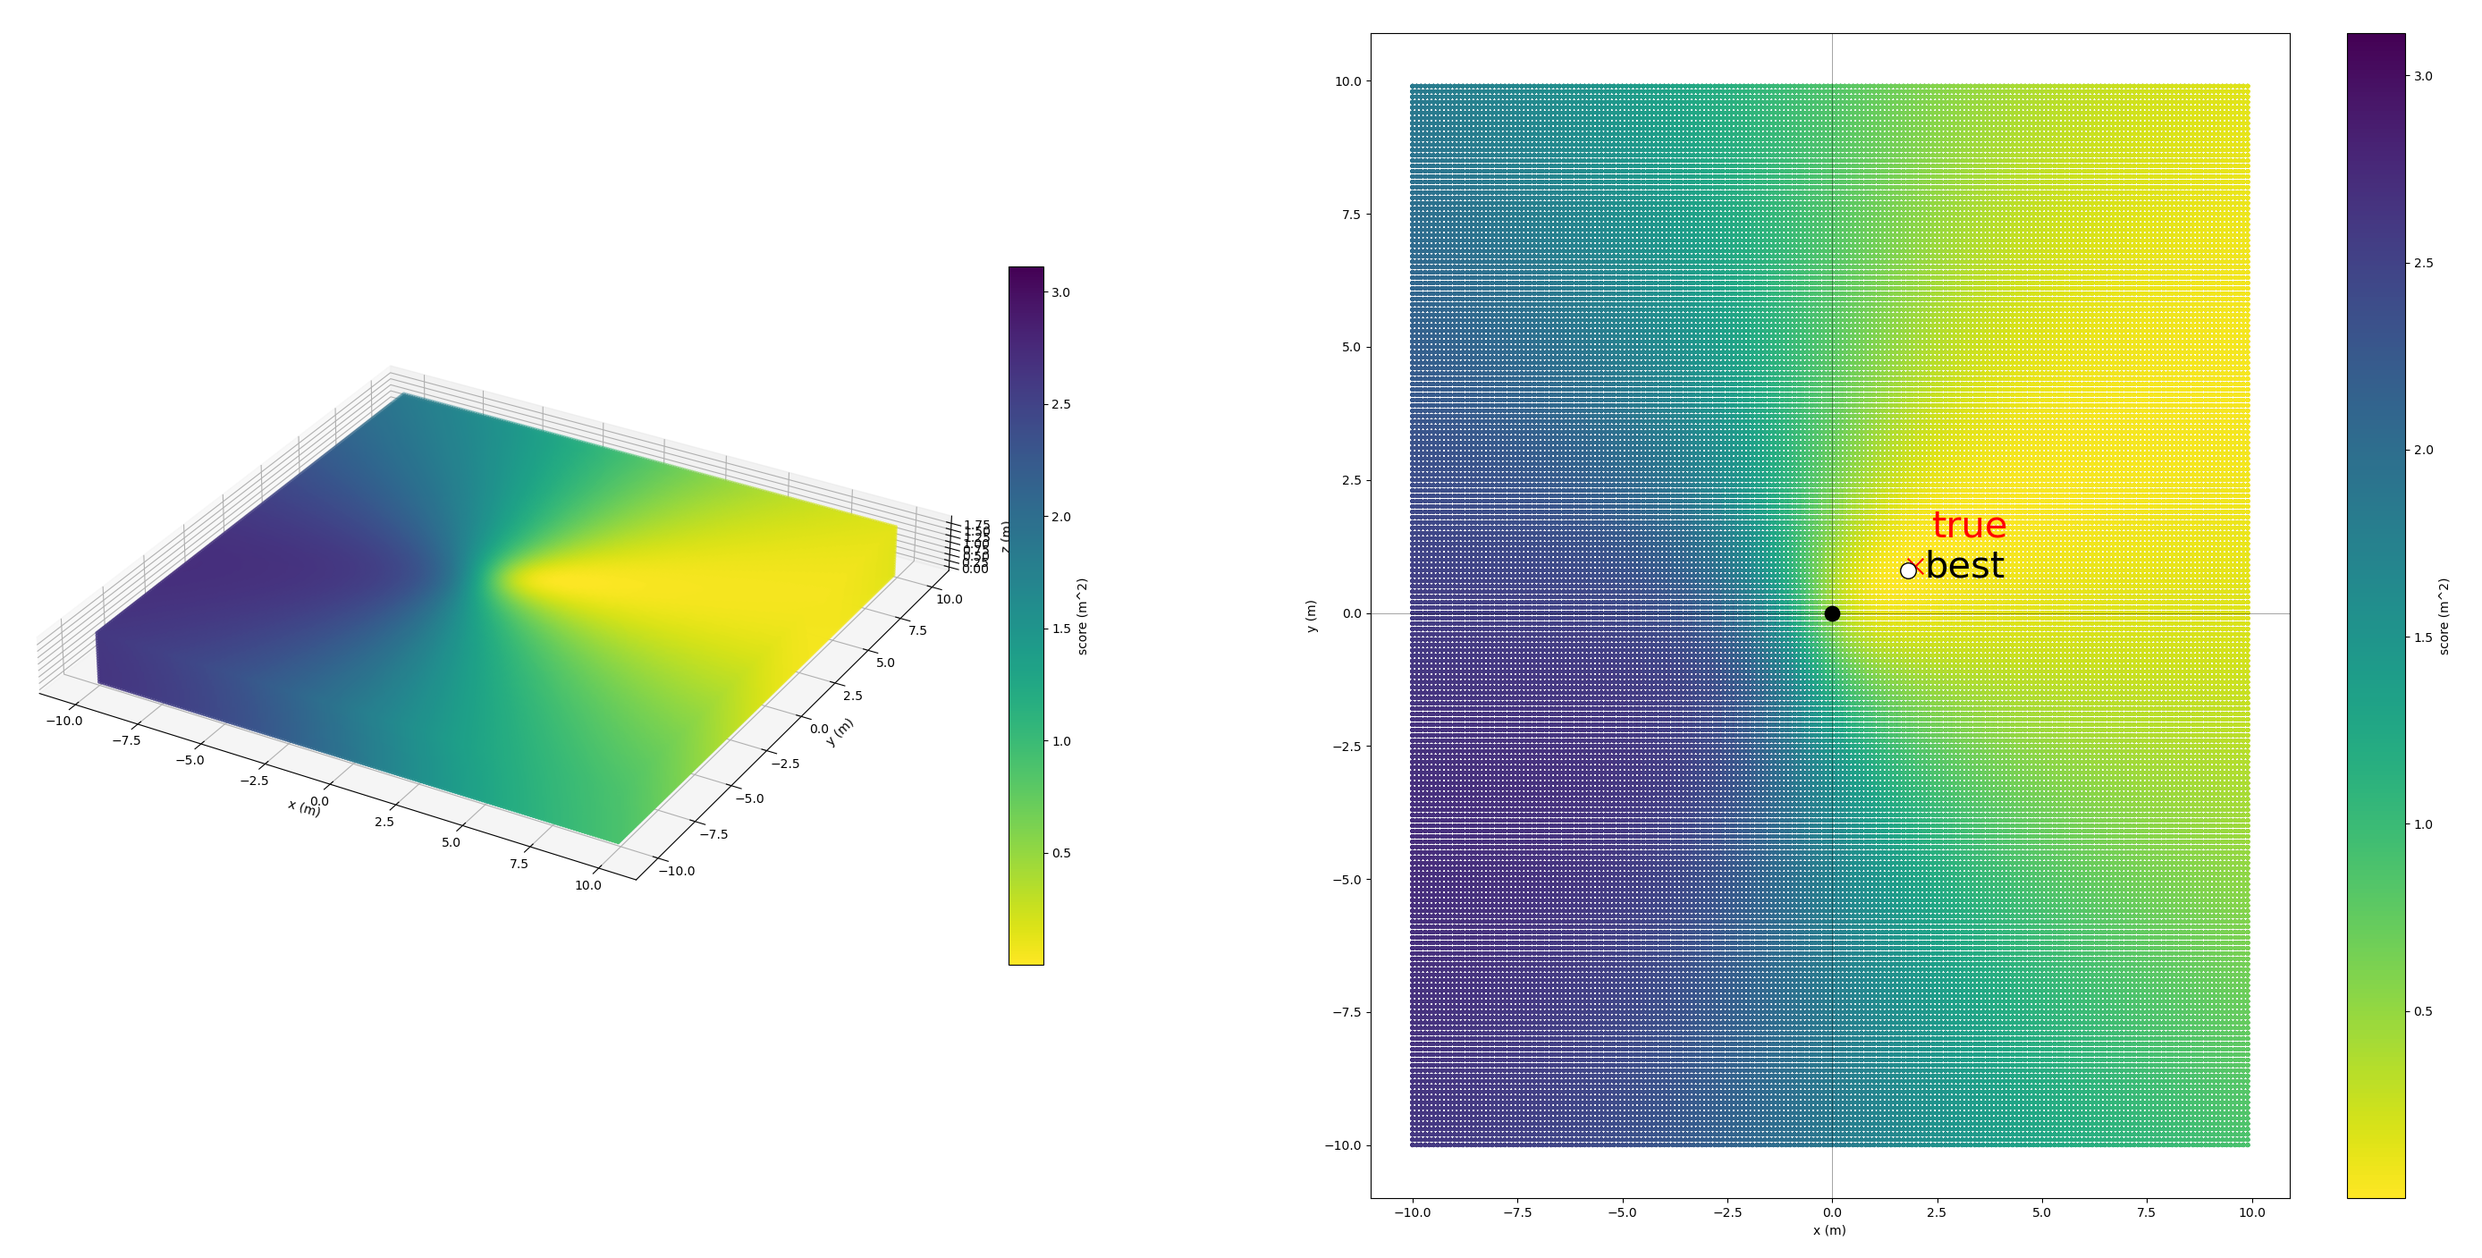
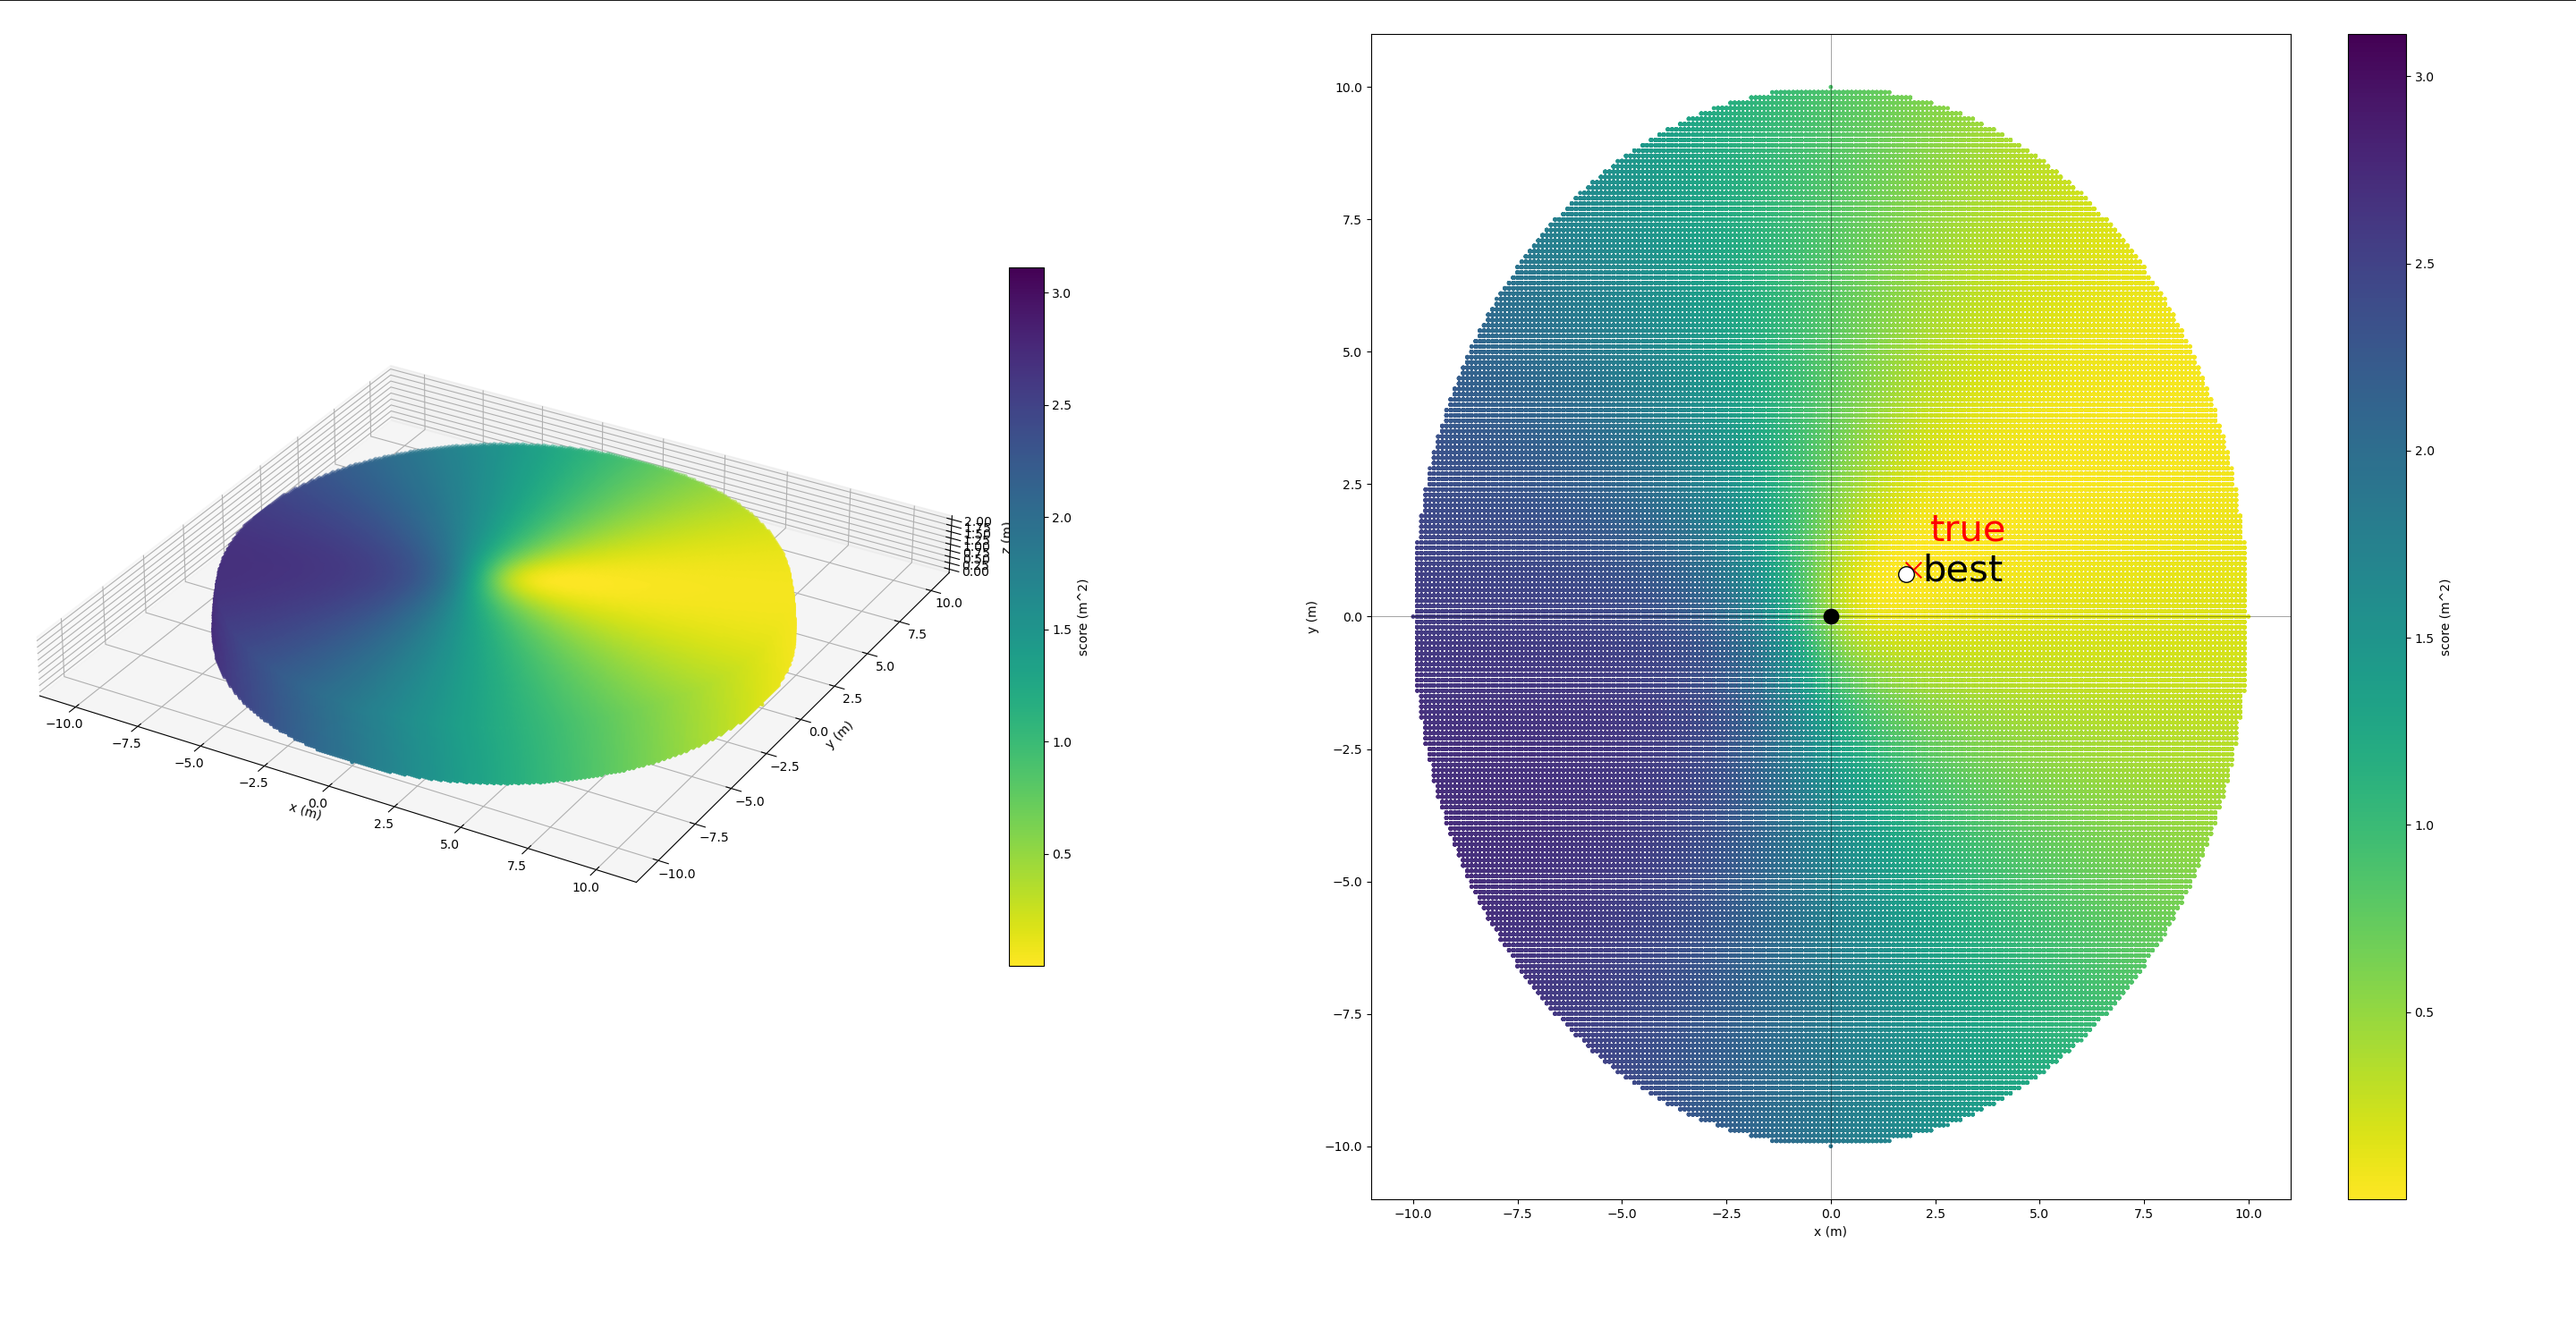
Triangulation changed to a disk

diff --git a/Sections/sound_localisation.tex b/Sections/sound_localisation.tex
@@ -90,7 +90,7 @@ In total the formula for finding the position of the sound source becomes:
     \text{argmin}_{P} \sum_{(a,b)} (\|P - M_b\| - \|P - M_a\| - \Delta d^{measured}_{ab})^2
 \end{equation}
 
-In practice the 3D grid (10x10x2 meter) for traingulation is designed with a space of 10 cm between each point making the error margin a maximum of $\sqrt{5^2 + 5^2 + 5^2} = 8.66$ cm. However, an error of this size isn't a point of concern, since the error is relatively small. An example of the triangulation on perfect TDOA-values that match a certain point can be seen in \cref{fig:Triangulation_Example}.
+In practice a 3D grid, which is a disk with 10 meter radius and 2 meter height, is designed for triangulation with a space of 10 cm between each point making the error margin a maximum of $\sqrt{5^2 + 5^2 + 5^2} = 8.66$ cm. However, an error of this size isn't a point of concern, since the error is relatively small. An example of the triangulation on perfect TDOA-values that match a certain point can be seen in \cref{fig:Triangulation_Example}.
 
 \begin{figure}[H]
     \centering
